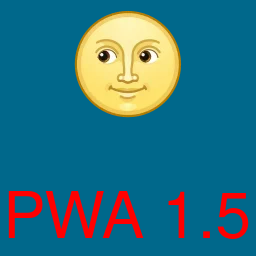
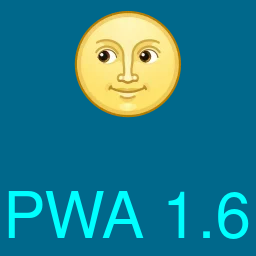
ver. 1.6

Changed region(s): [[0.0312, 0.7188, 0.5625, 0.9375], [0.7812, 0.75, 0.9688, 0.9375], [0.6562, 0.75, 0.75, 0.9375]]

diff --git a/app.html b/app.html
@@ -6,6 +6,6 @@
     <link rel="manifest" href="manifest.json" />
   </head>
   <body style="background: deepskyblue;">
-    <p>App page ver. 1.5</p>
+    <p>App page ver. 1.6</p>
   </body>
 </html>
